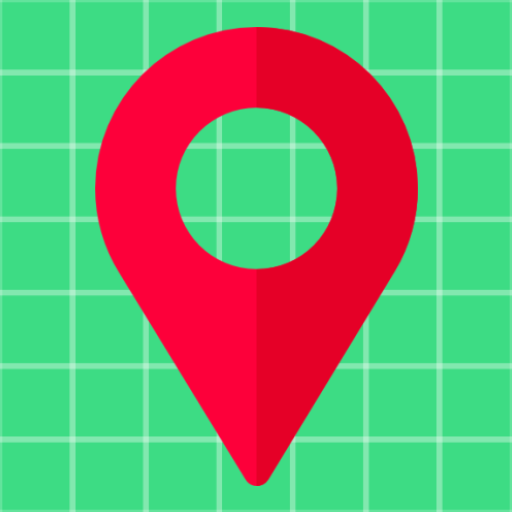
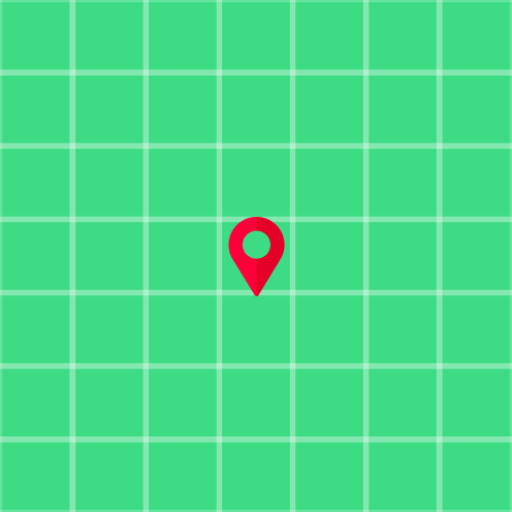
feat: Adding and deleting stops on map.

diff --git a/voom-app/app/src/main/java/inc/visor/voom/app/user/home/UserHomeFragment.java b/voom-app/app/src/main/java/inc/visor/voom/app/user/home/UserHomeFragment.java
@@ -60,6 +60,9 @@ public class UserHomeFragment extends Fragment {
                 }
         ));
 
+        requireView().findViewById(R.id.btn_clear_route)
+                .setOnClickListener(v -> viewModel.clearRoute());
+
 
         observeViewModel();
     }
@@ -96,23 +99,21 @@ public class UserHomeFragment extends Fragment {
 
             marker.setPosition(new GeoPoint(p.lat, p.lng));
 
-            switch (p.type) {
-                case PICKUP:
-                    marker.setTitle("Pickup");
-                    break;
-                case STOP:
-                    marker.setTitle("Stop");
-                    break;
-                case DROPOFF:
-                    marker.setTitle("Dropoff");
-                    break;
-            }
+            marker.setIcon(
+                    requireContext().getDrawable(R.drawable.ic_location_24)
+            );
+
+            marker.setAnchor(
+                    org.osmdroid.views.overlay.Marker.ANCHOR_CENTER,
+                    org.osmdroid.views.overlay.Marker.ANCHOR_BOTTOM
+            );
 
             mapView.getOverlays().add(marker);
         }
 
         mapView.invalidate();
     }
+
 
     private void renderForm(List<RoutePoint> points) {
 
